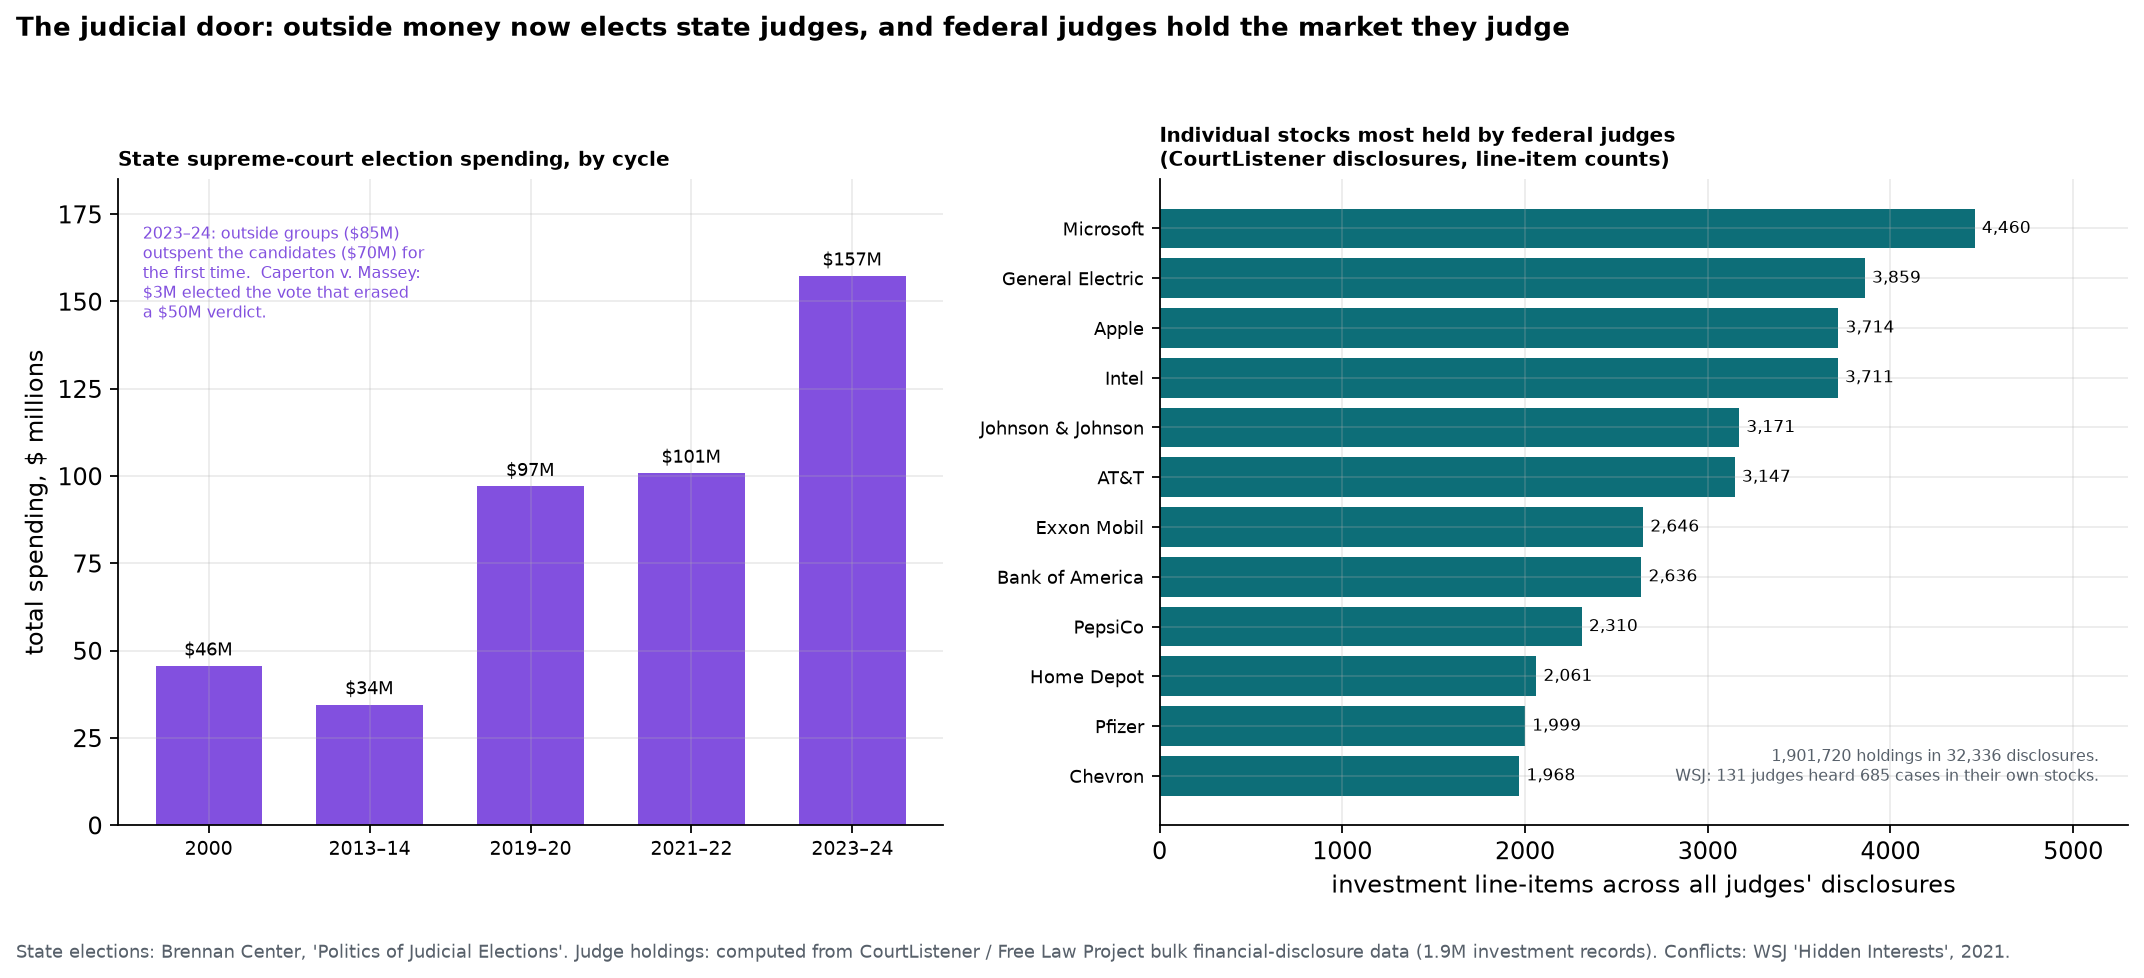
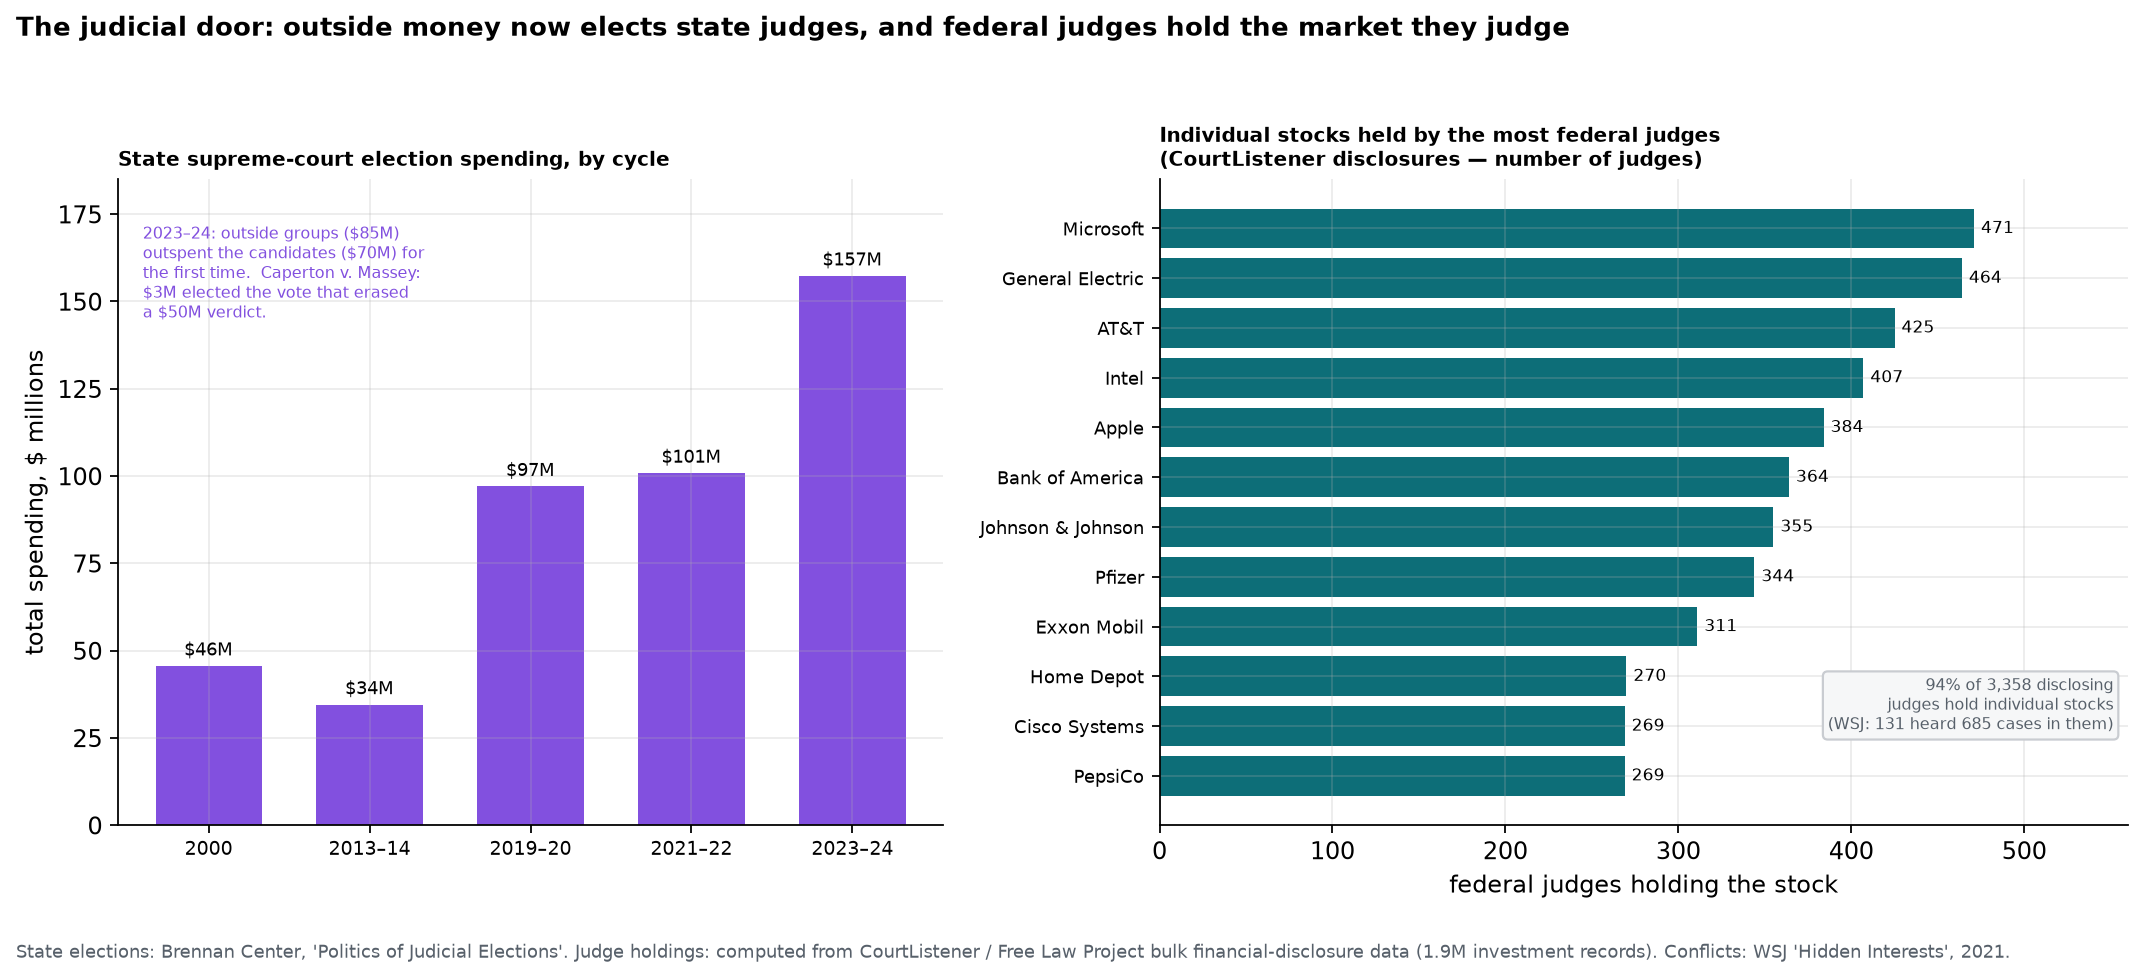
Ch10 F19: judge-conflict quick win — compute the ownership conflict surface (distinct judges)
Backlog #14 / part (c). Closes the honest gap in F19 (top-holdings were line-item
counts). Downloaded CourtListener's financial-disclosures bulk (disclosure->person_id)
and JOINED it to the 1.9M investments -> computed the DISTINCT-JUDGE conflict surface:
- 94% of the 3,358 disclosing federal judges hold >=1 individual stock (near-universal).
- The blue-chips that most often appear as litigants are each held by HUNDREDS of
  judges: Microsoft 471, GE 464, AT&T 425, Intel 407, Apple 384, Exxon 311.
- This is the substrate under the WSJ's 131 judges/685 cases: with hundreds of judges
  holding the same few hundred big companies, the overlaps are arithmetic, not accident.

Upgraded F19 Panel B from line-item counts to distinct-judge counts (far more
meaningful: "held by 471 judges" not "4,460 line-items") + the 94% prevalence.
Honest scope note: the exact 685-case reproduction needs court-docket party-matching
(hard); this computes the OWNERSHIP side rigorously. Updated JUDGE_HOLDINGS/
JUDGE_DISCLOSURE + prose + test. No new fig/count. 37 sources, 116 figures, 154 tests.

diff --git a/src/econlab/analysis/ch10_chokepoints.py b/src/econlab/analysis/ch10_chokepoints.py
@@ -1576,14 +1576,16 @@ def fig_avenue_map() -> None:
 
 # ---------- opening the frontier doors: judiciary, clemency, earmarks ----------
 
-# Federal judges' most-held individual stocks — computed from CourtListener's bulk
-# financial-disclosure "investments" table (1,901,720 line-items, 2026-06); line-item counts.
+# Individual stocks held by the most DISTINCT federal judges — computed from
+# CourtListener's bulk financial-disclosure data (1.9M investments × 3,358 judges,
+# joined investments→disclosure→person, 2026-06); counts = number of judges holding.
 JUDGE_HOLDINGS = [
-    ("Microsoft", 4460), ("General Electric", 3859), ("Apple", 3714), ("Intel", 3711),
-    ("Johnson & Johnson", 3171), ("AT&T", 3147), ("Exxon Mobil", 2646), ("Bank of America", 2636),
-    ("PepsiCo", 2310), ("Home Depot", 2061), ("Pfizer", 1999), ("Chevron", 1968),
+    ("Microsoft", 471), ("General Electric", 464), ("AT&T", 425), ("Intel", 407),
+    ("Apple", 384), ("Bank of America", 364), ("Johnson & Johnson", 355), ("Pfizer", 344),
+    ("Exxon Mobil", 311), ("Home Depot", 270), ("Cisco Systems", 269), ("PepsiCo", 269),
 ]
-JUDGE_DISCLOSURE = {"investments": 1901720, "disclosures": 32336, "judges": 16191,
+JUDGE_DISCLOSURE = {"investments": 1901720, "disclosures": 32336, "judges": 3358,
+                    "stockholders": 3159, "stockholder_pct": 94,
                     "wsj_judges": 131, "wsj_cases": 685}   # WSJ 2021 "Hidden Interests"
 # state supreme-court election spending by cycle, $M (Brennan Center)
 JUDICIAL_ELECTIONS = [("2000", 45.6), ("2013–14", 34.5), ("2019–20", 97.0), ("2021–22", 100.8), ("2023–24", 157.3)]
@@ -1626,13 +1628,13 @@ def fig_judicial() -> None:
     ax2.barh(range(len(h)), [n for _, n in h], color="#0d6e78")
     ax2.set_yticks(range(len(h)), [n for n, _ in h], fontsize=8.2)
     for i, (_, n) in enumerate(h):
-        ax2.text(n + 40, i, f"{n:,}", va="center", fontsize=7.8)
-    ax2.set_title("Individual stocks most held by federal judges\n(CourtListener disclosures, line-item counts)", fontsize=9, loc="left")
-    ax2.set_xlabel("investment line-items across all judges' disclosures")
-    ax2.set_xlim(0, 5300)
-    ax2.text(0.97, 0.06, f"{jd['investments']:,} holdings in {jd['disclosures']:,} disclosures.\n"
-             f"WSJ: {jd['wsj_judges']} judges heard {jd['wsj_cases']} cases in their own stocks.",
-             transform=ax2.transAxes, ha="right", va="bottom", fontsize=7.4, color="#57606a", parse_math=False)
+        ax2.text(n + 4, i, f"{n:,}", va="center", fontsize=7.8)
+    ax2.set_title("Individual stocks held by the most federal judges\n(CourtListener disclosures — number of judges)", fontsize=9, loc="left")
+    ax2.set_xlabel("federal judges holding the stock")
+    ax2.set_xlim(0, 560)
+    ax2.text(0.985, 0.14, f"{jd['stockholder_pct']}% of {jd['judges']:,} disclosing\njudges hold individual stocks\n(WSJ: {jd['wsj_judges']} heard {jd['wsj_cases']} cases in them)",
+             transform=ax2.transAxes, ha="right", va="bottom", fontsize=7.3, color="#57606a", parse_math=False,
+             bbox=dict(boxstyle="round", fc="#f6f7f8", ec="#c9ccd1"))
 
     source_note(ax1, "State elections: Brennan Center, 'Politics of Judicial Elections'. Judge holdings: computed from CourtListener / "
                      "Free Law Project bulk financial-disclosure data (1.9M investment records). Conflicts: WSJ 'Hidden Interests', 2021.")

diff --git a/tests/test_sanity.py b/tests/test_sanity.py
@@ -564,7 +564,7 @@ def test_ch10_frontier_doors(con):
     # judicial: state-election spending tripled+; Microsoft is the top federal-judge holding
     assert JUDICIAL_ELECTIONS[-1][1] > 150                       # 2023-24 ~$157M
     assert JUDICIAL_ELECTIONS[-1][1] > 3 * JUDICIAL_ELECTIONS[0][1]
-    assert JUDGE_HOLDINGS[0][0] == "Microsoft" and JUDGE_HOLDINGS[0][1] > 4000
+    assert JUDGE_HOLDINGS[0][0] == "Microsoft" and JUDGE_HOLDINGS[0][1] > 400  # held by 471 distinct judges
     # clemency: Biden has the most commutations; the grant rate collapsed by GW Bush
     comm = {p: c for p, _, c, _ in CLEMENCY}
     assert comm["Biden"] == max(comm.values()) and comm["Biden"] > 4000

diff --git a/report/10-chokepoints.md b/report/10-chokepoints.md
@@ -756,12 +756,20 @@ case is *Caperton v. A.T. Massey Coal*: a coal CEO spent **~$3 million to elect 
 West Virginia justice**, who then cast the deciding vote to **erase a $50 million
 verdict against his company** (the U.S. Supreme Court, 5–4, finally called that a due-
 process violation). On the *federal* side the conflict is about holdings, and it is
-now **computable**: from the Free Law Project's bulk disclosure data — **1.9 million
-investment line-items across 32,000 judge-year filings** — the individual stocks
-judges most commonly own are the market's blue-chips (**Microsoft, GE, Apple, Intel,
-Johnson & Johnson, AT&T, ExxonMobil**). That matters because the *Wall Street Journal*
-found **131 federal judges heard 685 cases involving companies in their own
-portfolios**, ruling for their financial interest about two-thirds of the time — and
+now **computable** — and I computed it. Joining the Free Law Project's bulk
+disclosure data (**1.9 million investment line-items** across 3,358 judges'
+financial-disclosure filings) reveals a near-universal conflict surface: **94% of
+disclosing federal judges hold individual stocks**, and the market's blue-chips —
+the companies that most often turn up as litigants — are each held by *hundreds* of
+individual judges: **Microsoft by 471, General Electric 464, AT&T 425, Intel 407,
+Apple 384, ExxonMobil 311.** That is exactly why the *Wall Street Journal* could find
+**131 federal judges who heard 685 cases involving companies in their own
+portfolios**, ruling for their financial interest about two-thirds of the time — with
+so many judges holding the same few hundred big companies, the overlaps are not
+accidents but arithmetic. And the **Supreme Court had no binding ethics code at all
+until November 2023**, adopted amid the Thomas–Crow gift disclosures and still without
+an enforcement mechanism. The least-watched branch is bought going in and conflicted
+sitting down.
 the **Supreme Court had no binding ethics code at all until November 2023**, adopted
 amid the Thomas–Crow gift disclosures and still without an enforcement mechanism. The
 least-watched branch is bought going in and conflicted sitting down.